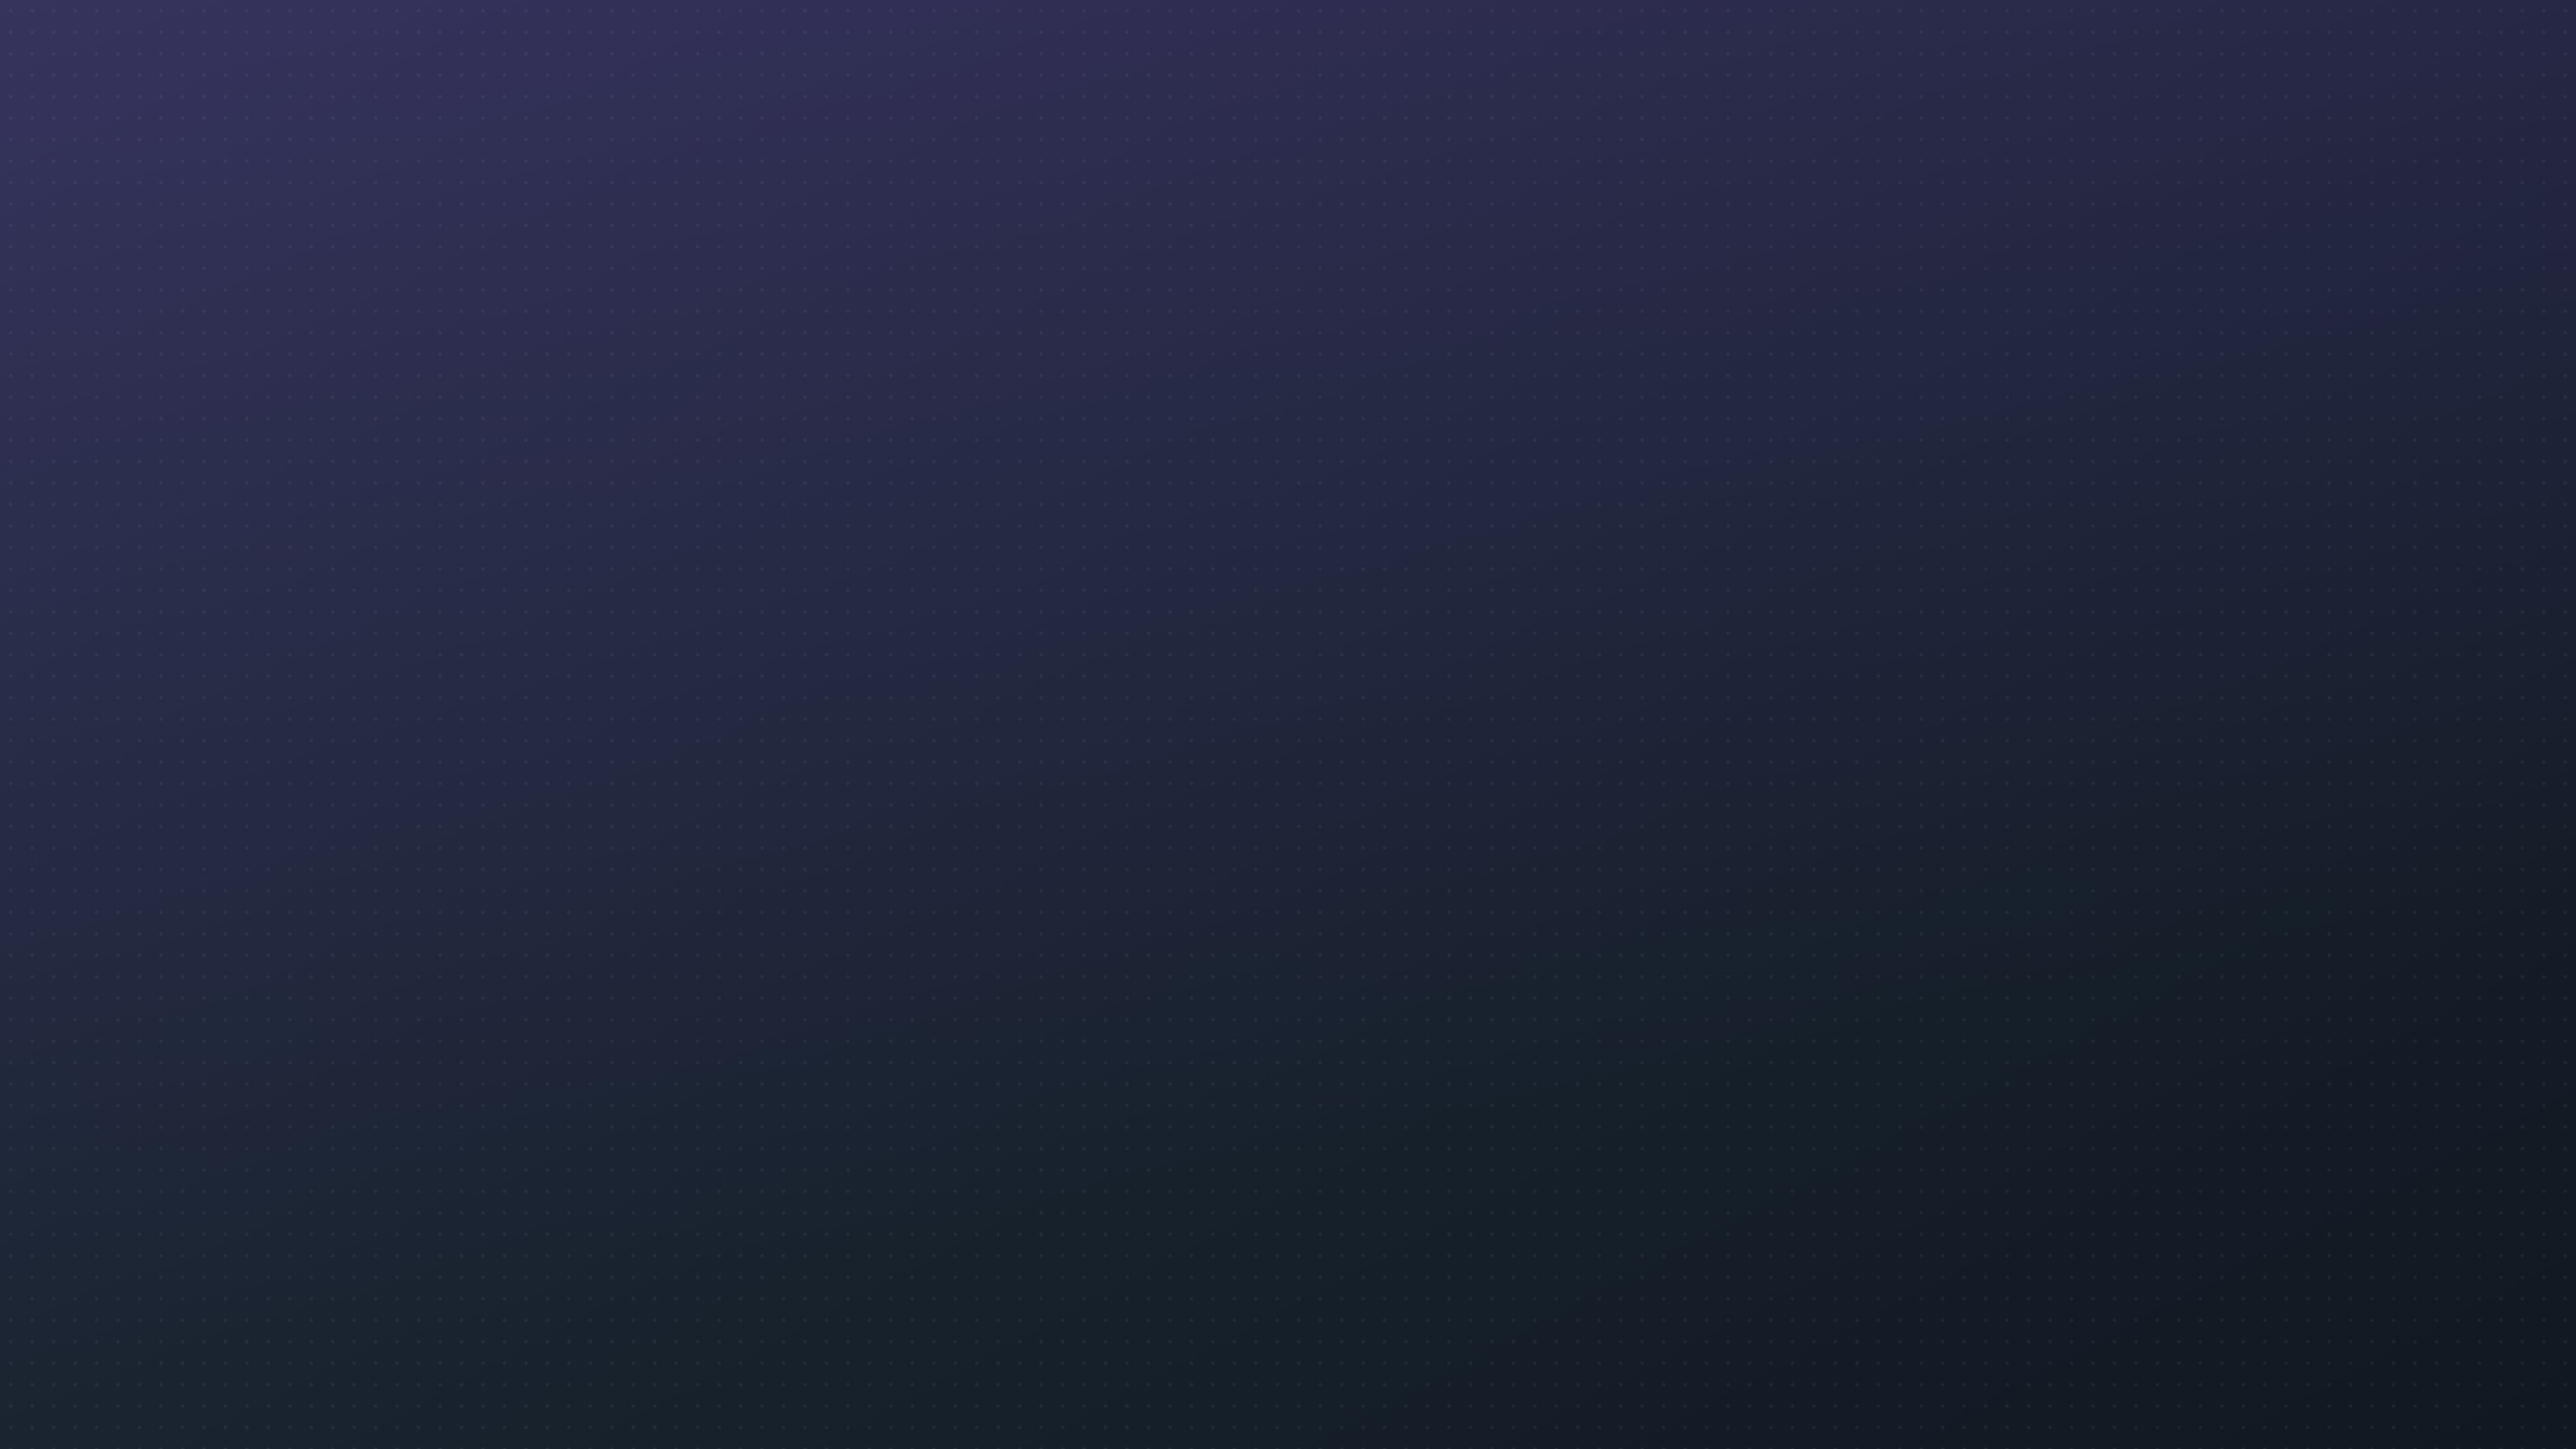
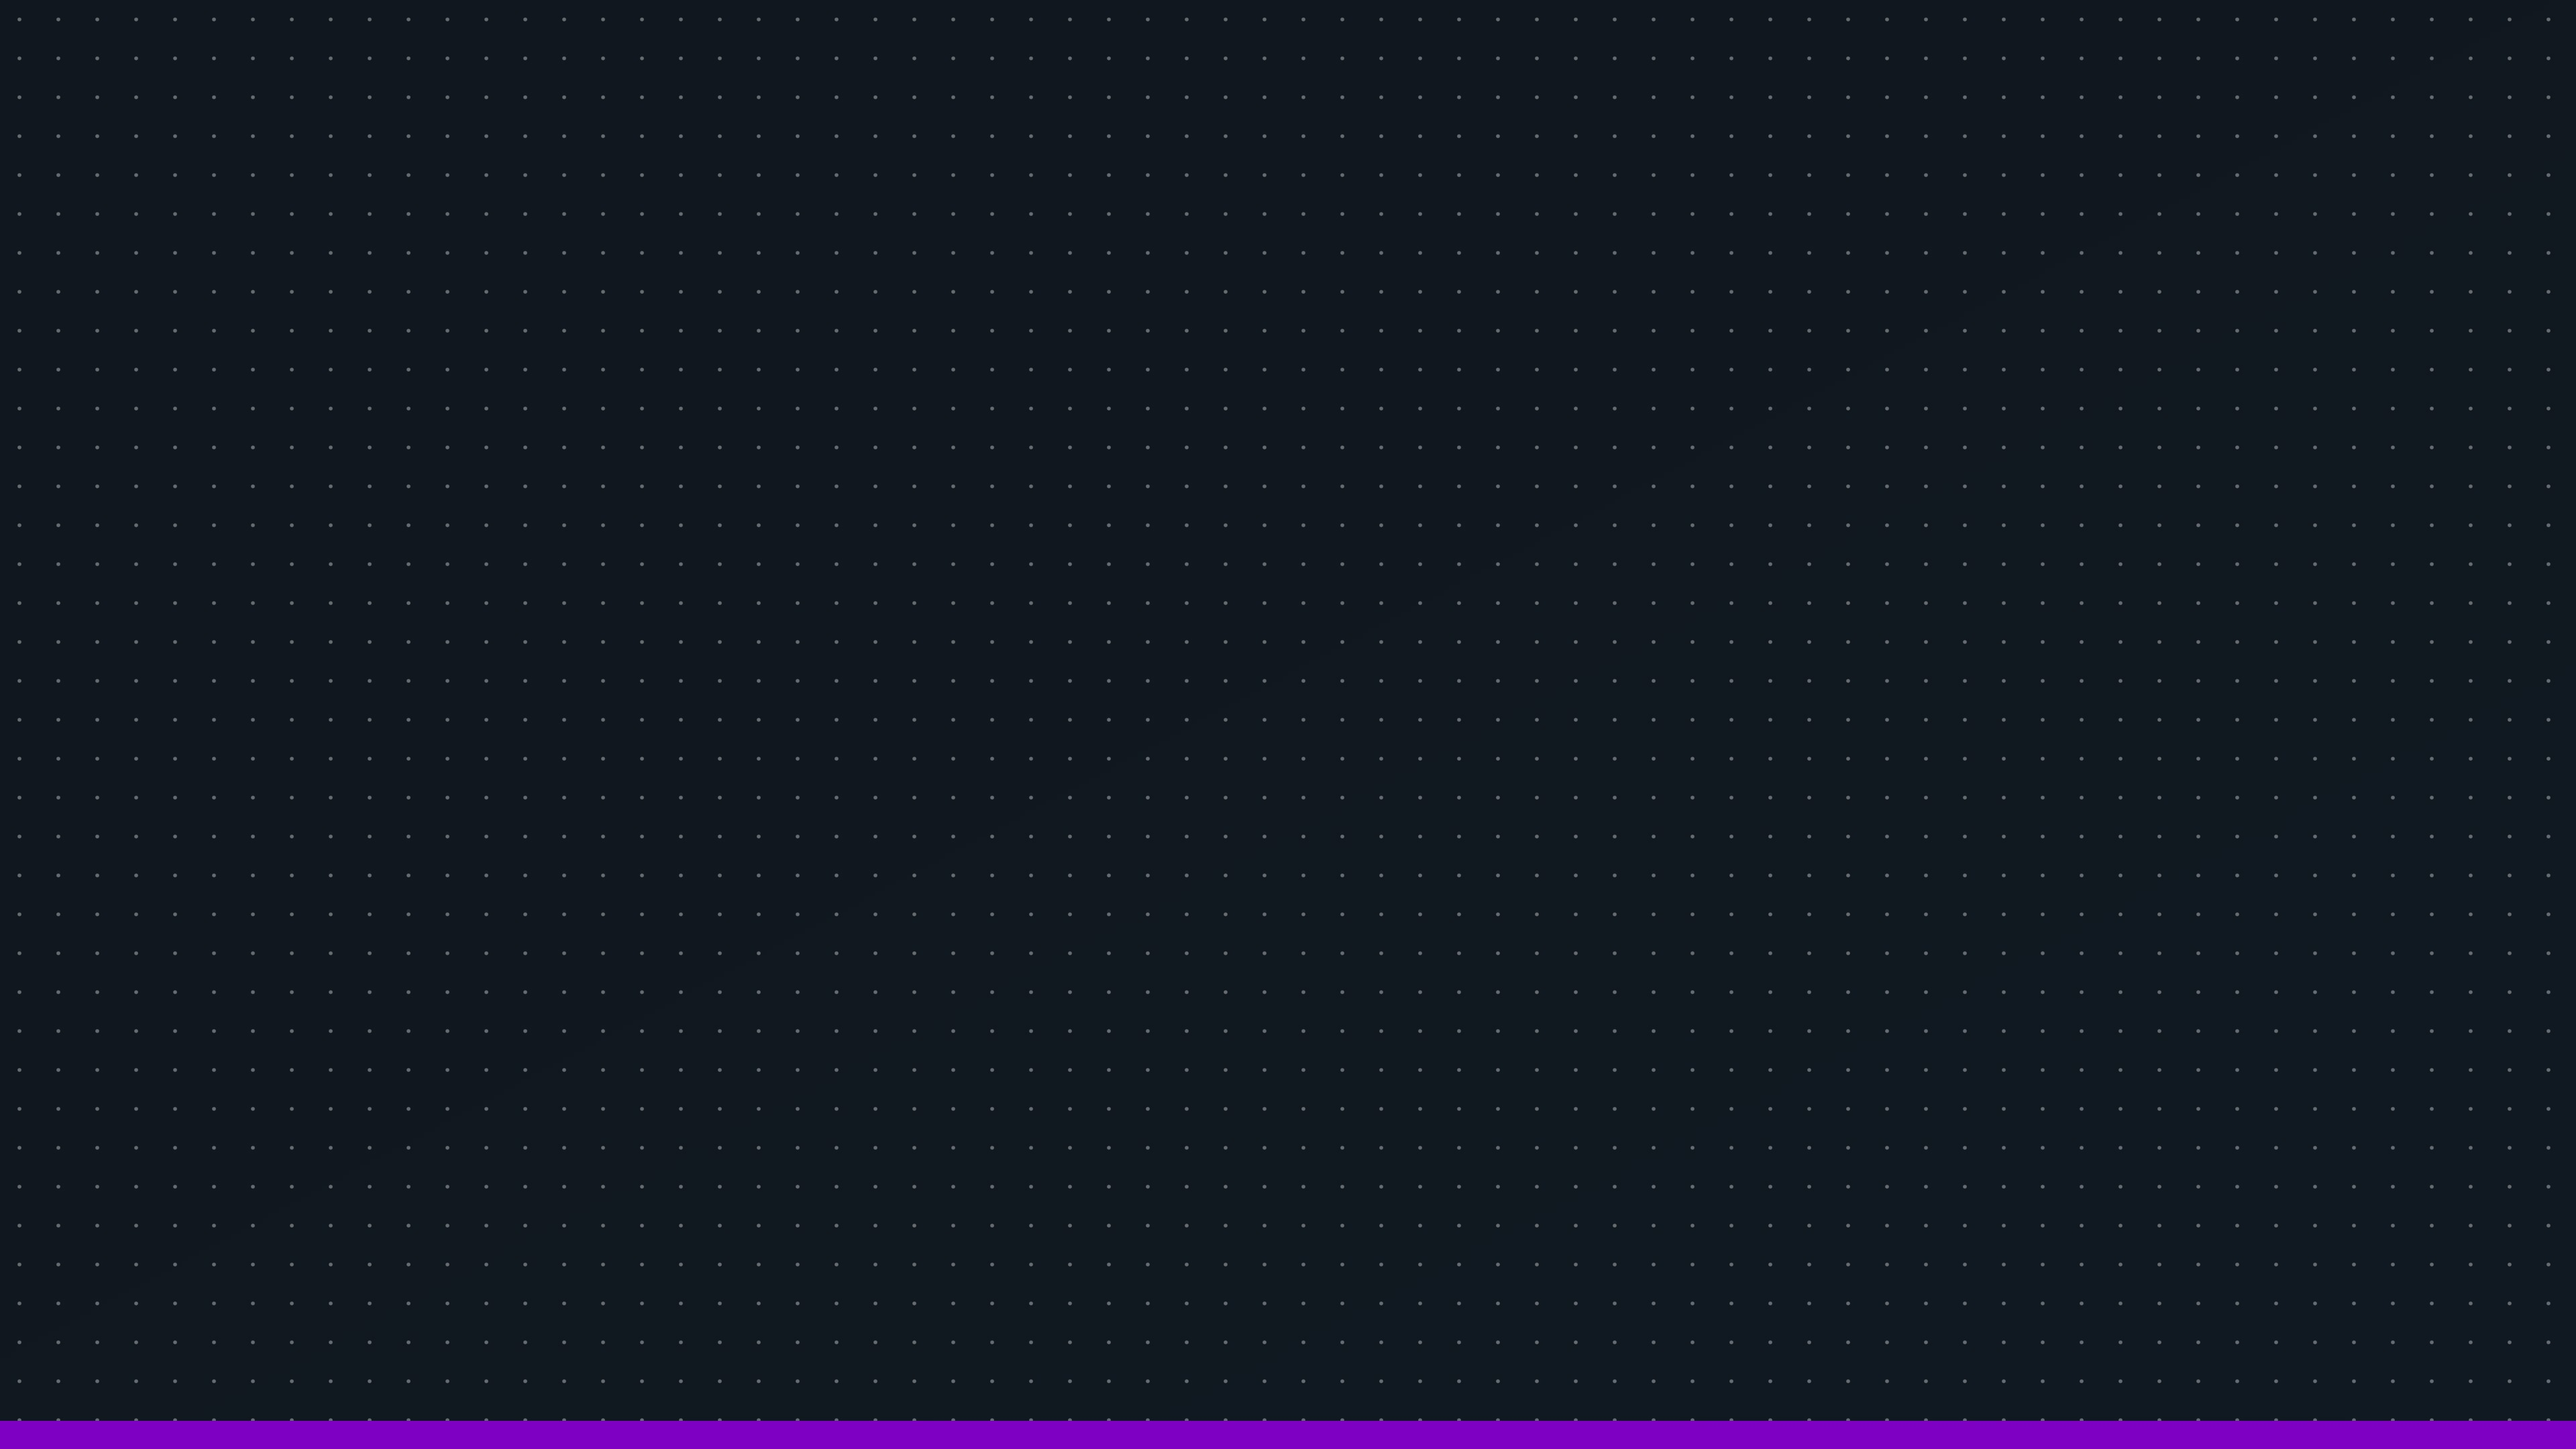
Wallpaper design pass, and the wallpapers reach the editor
Another session's wallpaper work: new bases, gradients, tints, textures and borders
across the set, re-rendered. Landed here as part of 0.0.1.

rm-framed's border radius is zeroed with it, which is what makes `npm run check` green
for the first time. `sides: "bottom"` draws a rule, and lib/wallpaper.mjs never reads
radius on that branch — "a rule has no corners to round". So 36 was dead config, and
proving it was the point: the re-render after zeroing it is byte-identical to the one
before. No design was changed to satisfy an assertion.

The README is corrected where it had drifted: 13 backdrops rather than 16, the build
chain has icons and app in it, `check` is described as what it now is, and "Three ways
into a video" is four — Record is scriptable now, and both scripted routes stay
current, which was the whole point of that table.

649 assertions, 0 failures.

diff --git a/lib/studio.js b/lib/studio.js
@@ -198,10 +198,7 @@ async function load() {
     claude: ['writes scripts and drives a Make render', 'the claude CLI is not on PATH.'],
     ffmpeg: ['probes media and cuts the renders', 'not on PATH. `brew install ffmpeg`.'],
     rclone: ['optional — only for syncing a project to a remote', 'not configured, which is fine unless you want Storage.'],
-    hyperframes: [
-      'the /hyperframes skills a Make render uses, and Kokoro for Voice. Not installed anywhere — npx fetches it on first use.',
-      'not in the npx cache yet. Nothing to fix: the first render or voice line fetches it.',
-    ],
+    hyperframes: ['the /hyperframes skills a Make render uses, and Kokoro for Voice. Not installed anywhere — npx fetches it on first use.', 'not in the npx cache yet. Nothing to fix: the first render or voice line fetches it.'],
     voice: ['the private Python environment Kokoro speaks from', 'not built yet. The Voice page has a button for it.'],
     remotes: ['rclone remotes a project can be pushed to — see Storage', 'no rclone remotes configured, which only matters if you want Storage.'],
   }
@@ -896,8 +893,6 @@ function cardArt(p, facts) {
 function vLibrary(m) {
   if (openProject) return vProject(m, openProject)
 
-  m.append(el('p', 'lede', 'Every project in the library. Indexed automatically — whatever is on disk is what you see.'))
-
   // Toolbar: how it is shown, what is shown, in what order.
   const bar = el('div', 'libbar')
   const seg = el('div', 'seg')
@@ -1109,8 +1104,7 @@ function vProject(m, id) {
       return
     }
     tone(importHint, 'ok')
-    importHint.textContent =
-      `Added to ${r.into}` + (r.renamed ? ` as ${r.renamed} — something was already called that` : '') + '.'
+    importHint.textContent = `Added to ${r.into}` + (r.renamed ? ` as ${r.renamed} — something was already called that` : '') + '.'
     importPath.value = ''
     await load()
   }
@@ -1537,9 +1531,7 @@ function vReview(m) {
           return
         }
         save.disabled = true
-        const r = await (
-          await fetch('/api/review/settings', { method: 'POST', headers: { 'content-type': 'application/json' }, body: JSON.stringify(payload) })
-        ).json()
+        const r = await (await fetch('/api/review/settings', { method: 'POST', headers: { 'content-type': 'application/json' }, body: JSON.stringify(payload) })).json()
         save.disabled = false
         if (r.error) {
           tone(hint, 'bad')
@@ -1979,7 +1971,6 @@ function demoBuilder(onChange, onSave) {
     onChange(demoStepsToScript(rows), rows.length, runTime())
   }
 
-
   const draw = () => {
     list.innerHTML = ''
     rows.forEach((r, i) => {
@@ -2379,6 +2370,15 @@ function vRecord(m) {
    * unchanged.
    */
   /*
+   * Declared before the builder, not after it.
+   *
+   * The builder emits on creation when a draft is restored, and that emit reads this
+   * — so with the declaration below it, coming back to a page with a saved draft threw
+   * "Cannot access 'handEdited' before initialization" and the page rendered nothing.
+   */
+  let handEdited = false
+
+  /*
    * The steps, as rows.
    *
    * The builder writes the markdown; the markdown is still what runs. That split
@@ -2394,6 +2394,8 @@ function vRecord(m) {
       : ''
     recheck()
   }, (rows) => saveDraft(proj.value, rows))
+
+
   const stepCount = el('div', 'path')
   const builderHint = el('div', 'hint')
   builderHint.textContent = 'Each row is one thing that happens, in order. "Wait until something appears" is the one to reach for after anything that loads — it holds the demo until it is there instead of clicking into a page that has not arrived.'
@@ -2426,14 +2428,6 @@ function vRecord(m) {
    * discarding someone's hand edit on the next dropdown change is worse than
    * either option.
    */
-  /*
-   * Declared before the builder, not after it.
-   *
-   * The builder emits on creation when a draft is restored, and that emit reads this
-   * — so with the declaration below it, coming back to a page with a saved draft threw
-   * "Cannot access 'handEdited' before initialization" and the page rendered nothing.
-   */
-  let handEdited = false
   const script = el('textarea')
   script.className = 'form-control'
   script.rows = 9
@@ -2586,7 +2580,27 @@ function vRecord(m) {
     // A typed value is always a title; a picked one carries its own kind, because
     // record takes a screen by index and a window by title and neither by id.
     const source = pick.value === TYPE_IT ? { kind: 'window', value: typed.value.trim() } : pick.value === '' ? { kind: '', value: '' } : (sources[Number(pick.value)] ?? { kind: '', value: '' })
-
+    const r = await (
+      await fetch('/api/record', {
+        method: 'POST',
+        headers: { 'content-type': 'application/json' },
+        body: JSON.stringify({
+          projectId: proj.value,
+          title: title.value,
+          source,
+          seconds: secs.value,
+          script: script.value,
+          mic: mic.checked,
+          micDevice: micDevice.value,
+          systemAudio: sysAudio.checked,
+          cursor: cursor.value,
+          url: url.value,
+          width: vw.value,
+          height: vh.value,
+          headless: headless.checked,
+        }),
+      })
+    ).json()
     steps.innerHTML = ''
     if (r.error) {
       steps.append(Object.assign(el('div', 'hint bad'), { textContent: r.error }))
@@ -2944,10 +2958,7 @@ function vRecast(m) {
     for (const el2 of [clickCfg, clickSound]) el2.disabled = !on(cClick)
     textCfg.disabled = !on(cTextProc)
     tone(fmtHint)
-    fmtHint.textContent =
-      fmt.value === 'webm'
-        ? 'webm skips the narration mux: rm-mux writes mp4, and it is the step that reconciles the render’s clock with the narration’s. Subtitles get burned by recast instead, against the wrong clock.'
-        : ''
+    fmtHint.textContent = fmt.value === 'webm' ? 'webm skips the narration mux: rm-mux writes mp4, and it is the step that reconciles the render’s clock with the narration’s. Subtitles get burned by recast instead, against the wrong clock.' : ''
   }
   fmt.onchange = syncOpts
 

diff --git a/lib/studio.html b/lib/studio.html
@@ -5,8 +5,7 @@
    <meta charset="utf-8" />
    <meta name="viewport" content="width=device-width,initial-scale=1" />
    <title>RoleModel Studio</title>
-   <link rel="icon"
-      href="/brand-mark.svg" />
+   <link rel="icon" href="/brand-mark.svg" />
    <!-- Vendored, not linked to a CDN: this page is hosted by a desktop app that has
         to start with no network. fonts.css binds the two families the styles below
         already name; hugeicons.css is the icon set. -->
@@ -710,13 +709,13 @@
       .projlist .projart {
          aspect-ratio: auto;
          inline-size: var(--op-space-4x-large);
-         block-size: var(--op-space-3x-large);
+         block-size: var(--op-space-4x-large);
          flex: 0 0 auto;
       }
 
       .projlist .projcap,
       .projlist .projfoot {
-         padding: 0;
+         padding: var(--op-space-x-large);
          border: 0;
          flex: 1 1 auto;
       }
@@ -853,7 +852,7 @@
       .form .full {
          grid-column: 1/-1;
          display: grid;
-         place-content: start;
+         place-content: stretch;
          gap: var(--op-space-small);
          margin-bottom: var(--op-space-medium);
       }
@@ -1309,8 +1308,7 @@
    <div class="op-page__sidebar">
       <nav class="sidebar sidebar--drawer">
          <a class="sidebar__brand sidebar__brand--left" href="/">
-            <img height="50" width="50"
-               src="/brand-mark.svg" />
+            <img height="50" width="50" src="/brand-mark.svg" />
          </a>
          <div class="sidebar__content sidebar__content--start">
             <h1>RoleModel Studio</h1>

diff --git a/README.md b/README.md
@@ -64,7 +64,8 @@ brand/optics/rolemodel-scales.css  GENERATED — only the scales Optics doesn't 
 brand/optics/manifest.json GENERATED — the pinned Optics version + hashes
 brand/optics-tokens.json   the Figma export, now only for the RoleModel sub-brands
 brand/wallpapers.json      wallpaper recipes — the editable source of truth
-brand/wallpapers/          16 rendered backdrops + a contact sheet
+brand/wallpapers/          13 rendered backdrops + a contact sheet. Installed into
+                           the fork too, so the editor's picker offers them
 presets/*.json             rolemodel · academy · lightning
 lib/theme.mjs              load a preset, patch a project document
 lib/annotations.mjs        branded title / lower-third / callout / watermark / zoom builders
@@ -125,10 +126,17 @@ openscreen export demo.openscreen -o demo.mp4 --auto-zoom --json
 
 ```bash
 npm run build     # sync-brand -> optics.css -> wallpapers
-npm run check     # the same three, as assertions — this is what CI runs
+npm run check     # every one-way copy as an assertion — this is what CI runs
+npm run icons     # re-fetch the HugeIcons set into brand/icons
+npm run icon      # rebuild the app icon from brand/icon/source
+npm run app       # launch the app from the fork beside this repo
 npm run dev       # Studio with live reload
 npm run studio    # Studio, plain
 ```
+
+`check` is the gate: it fails on a hand-edited generated file, a stale one-way copy,
+an icon name the UI asks for that the set does not have, a picker asking for a file
+flag the server never sends, and a few hundred other things. 649 assertions.
 
 `npm run dev` is `node --watch` over `bin/` and `lib/` plus a live-reload stream
 to the browser, so editing a panel and seeing it are the same motion. Changes to
@@ -210,13 +218,26 @@ burn-in.
 
 | | input | tool | stays current? |
 |---|---|---|---|
-| **Record** | your screen | `openscreen` | no — re-record by hand |
+| **Record** | your screen | `openscreen` | only if you script it |
+| **Record, scripted** | steps you build in the UI | `rm-demo capture` | **yes** — re-run the script |
 | **Make** | a script or a URL | HyperFrames, via Claude | re-run the brief |
 | **From a test** | a Playwright trace | `playwright-recast` | **yes** — re-run the test |
 
-The third one is the interesting one. A trace already contains actions,
+The two that stay current are the point. A Playwright trace already contains actions,
 screenshots, network waits and cursor positions, so a demo cut from it can be
 regenerated on every deploy and can never drift from the UI it documents.
+
+A scripted capture gets there from the other end: you build the steps as rows on the
+Record page — "Go to a page", "Wait until something appears", "Click something", each
+with an optional line to say while it happens — and `rm-demo capture` drives a browser
+through them while `openscreen record` captures that window. What lands is a
+`.openscreen` document, so the brand preset, auto-zoom and the camera bubble all still
+apply, and the run is repeatable. A step that carries a line holds long enough to say
+it, so the narration and the picture stay on one clock rather than drifting apart.
+
+Nothing is lost in the meantime: a half-built script is saved per project to
+`~/.config/rolemodel-openscreen/drafts/` on every edit, and any script on disk can be
+read back into rows.
 
 ## Components
 
